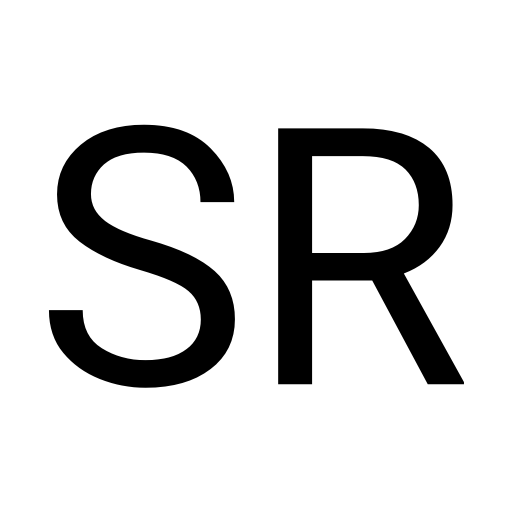
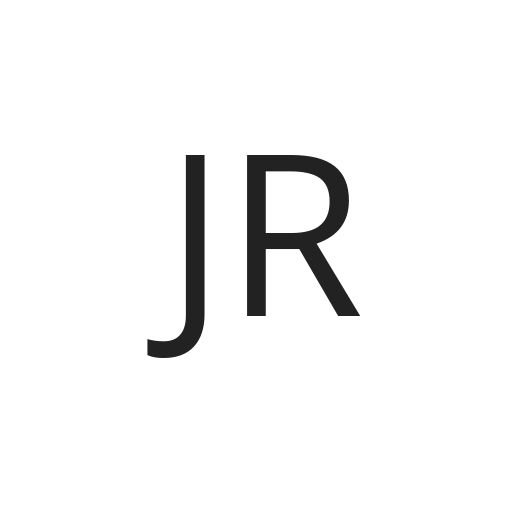
Add in some of my personal details

Changed region(s): [[0.0938, 0.2188, 0.9062, 0.7812]]

diff --git a/content/blog/First Blog.md b/content/blog/First Blog.md
@@ -1,12 +1,13 @@
 ---
 title: "Making a new Website"
-date: 2019-12-31T12:14:34+06:00
+date: 2023-03-26T17:08:28+00:00
 description: "My first blog, introducing my new website"
-author: "Sam Robbins"
+author: "Jared Rickert"
 type: "post"
 ---
 
-For a long time this website has had a couple of links to contact me, but those days are over.
+For a long time this website has had a couple of links to contact me, but those
+days are over.
 
 Now I have a brand new Hugo website with a custom written theme complete with
 
@@ -17,13 +18,26 @@ Now I have a brand new Hugo website with a custom written theme complete with
 
 ### Why Hugo?
 
-The first question is why a _site builder_? I'm competent at web development, why not just write it all myself? The markdown processing makes it much easier to just write words, not having to think about the formatting, and if I'm going to blog often, then I'll need that.
 
-Next it gets to why Hugo? why not Jekyll or any of the other vast array of site builders? The answer to that is sadly rather boring, it had a theme I liked the look of, in particular [this theme](https://github.com/themefisher/kross-hugo), and it had an MIT license, so I could publish and tweak it as much as I wanted to.
+
+The first question is why a _site builder_? I'm competent at web development,
+why not just write it all myself? The markdown processing makes it much easier
+to just write words, not having to think about the formatting, and if I'm going
+to blog often, then I'll need that.
+
+Next it gets to why Hugo? why not Jekyll or any of the other vast array of site
+builders? The answer to that is sadly rather boring, it had a theme I liked the
+look of, in particular [this theme](https://github.com/themefisher/kross-hugo),
+and it had an MIT license, so I could publish and tweak it as much as I wanted
+to.
 
 ### Why start blogging?
 
-A very good question. For one it would allow me to showcase my skills more than just a portfolio would, not everything fits under the umbrella of a portfolio, but I can blog about whatever I want. Secondly is to act as a reminder of how I do things, if I blog my process when I do technical things, I'll always be able to look back and see how I did it if I ever have to do it again.
+A very good question. For one it would allow me to showcase my skills more than
+just a portfolio would, not everything fits under the umbrella of a portfolio,
+but I can blog about whatever I want. Secondly is to act as a reminder of how I
+do things, if I blog my process when I do technical things, I'll always be able
+to look back and see how I did it if I ever have to do it again.
 
 ### So what can I expect to see in the blog?
 

diff --git a/content/about/_index.md b/content/about/_index.md
@@ -1,13 +1,17 @@
 ---
 title: "About"
-date: 2019-05-12T12:14:34+06:00
+date: 2023-03-26T17:01:49+00:00
 description: "This is meta description."
-author : "Sam Robbins"
-authorImage : "images/about/profile.jpg"
+author : "Jared Rickert"
+authorImage : "https://ui-avatars.com/api/?background=fff&amp;color=000&name=Jared+Rickert"
 ---
 
-Hi! I'm Sam, a second year Computer Science student from Durham University. 
-I like doing personal projects, which you will find in the portfolio page of this website. 
-My specialties can be found on the homepage, of which most are web development or cyber security.
+Hi! I'm Jared, a professional Full Stack Web Engineer. My specialties can be
+found on the homepage, of which most are web development or cloud
+infrastructure.
 
-I am currently available for part time remote work, but will be looking for full time employment from summer 2021.
+I am currently available for full time remote work.  I am looking for either a
+web dev role, either frontend, backend, or full stack.  I am also interested in
+Site Reliability Engineer, Infrastructure Engineer, Platform Engineer, or
+DevOps roles.
+

diff --git a/content/_index.md b/content/_index.md
@@ -1,10 +1,10 @@
 ---
-date: 2017-10-19T15:26:15Z
-lastmod: 2019-10-26T15:26:15Z
-publishdate: 2018-11-23T15:26:15Z
-author: Sam Robbins
-title: Sam Robbins' Website
-description: I'm a second year Computer Science student at Durham
+date: 2023-03-26T03:35:02+00:00
+lastmod: 2023-03-26T03:35:02+00:00
+publishdate: 2023-03-26T03:35:02+00:00
+author: Jared Rickert
+title: Jared Rickerts' Website
+description: Professional Full Stack Web Developer and Infrastructure Engineer
 images:
 - home-cover.png
 ---
